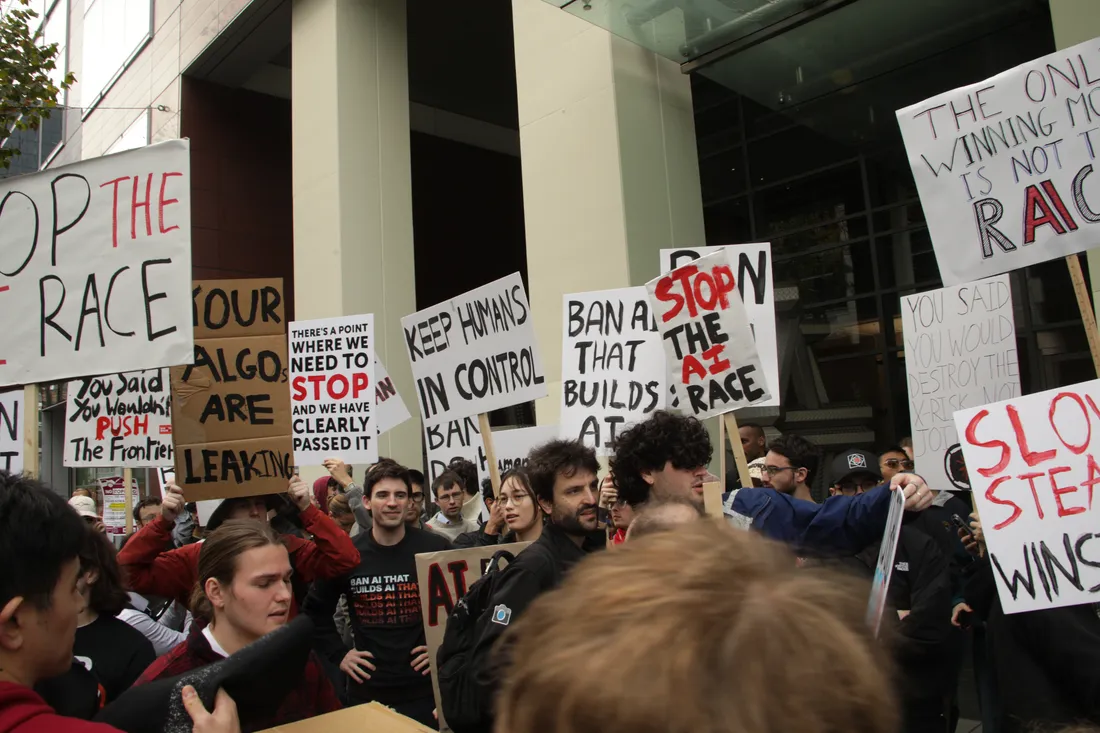
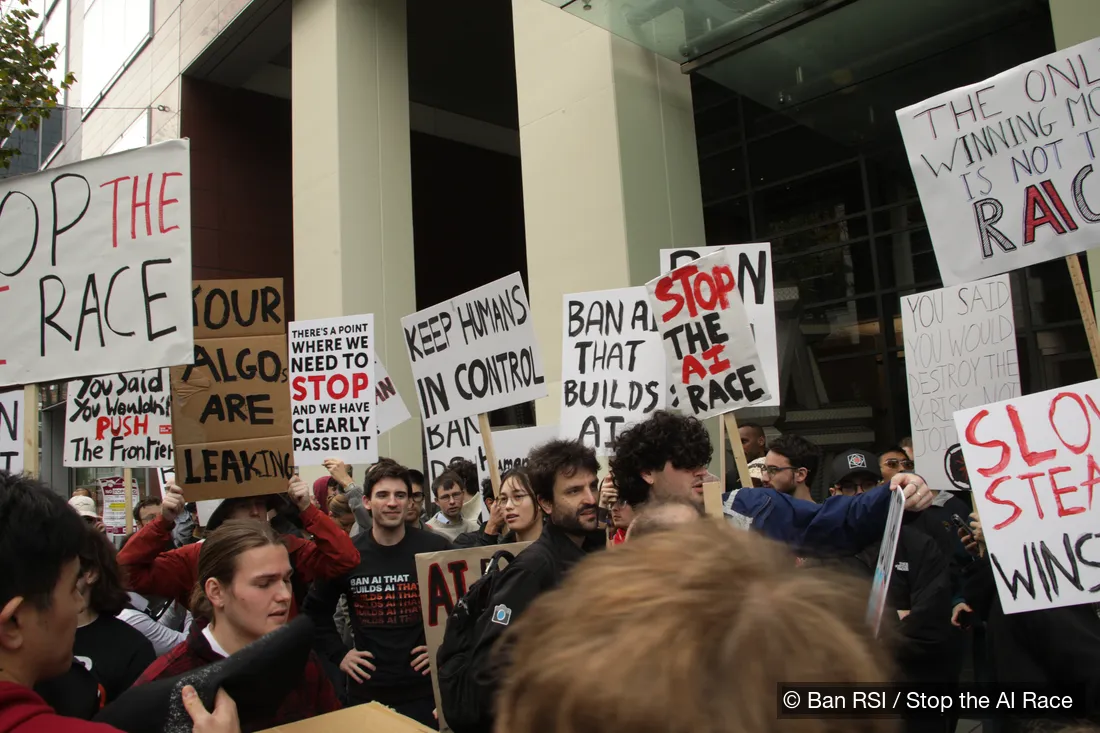
Ban RSI photos: visible © Ban RSI / Stop the AI Race watermark on every vote and press photo
Press photos renamed *-wm.jpg and vote photos load with ?v=2 so caches pick up the watermarked versions.

Changed region(s): [[0.68, 0.9304, 0.9582, 0.9905]]

diff --git a/banrsi/press/index.html b/banrsi/press/index.html
@@ -12,13 +12,13 @@ window.PRESS = {
   // Ban RSI is the main organizer; Stop the AI Race is a separate group that co-organized.
   ORGANIZERS: 'Ban RSI (Sydney Von Arx and Lauren Mangla), co-organized with Stop the AI Race',   // Event Details
 
-  // Photos: hero is /banrsi/hero-rally-2952.jpg (0H9A2952), Jacob Coxon speaking is /banrsi/photos/coxon-2979.jpg (0H9A2979), grid is /banrsi/photos/rally-*.jpg (tier 1 picks).
+  // Photos: hero is /banrsi/hero-rally-2952-wm.jpg (0H9A2952), Jacob Coxon speaking is /banrsi/photos/coxon-2979-wm.jpg (0H9A2979), grid is /banrsi/photos/rally-*.jpg (tier 1 picks).
   // To swap one, add the new file under a new name and update the path, so caches don't keep the old one.
   PHOTO_CREDIT: 'Ban RSI / Stop the AI Race',
   PHOTOS: [
-    { src: '/banrsi/photos/rally-2903.jpg',   // 0H9A2903
+    { src: '/banrsi/photos/rally-2903-wm.jpg',   // 0H9A2903
       alt: 'Protesters on the sidewalk outside Anthropic’s headquarters with signs including “Really Stupid Idea”' },
-    { src: '/banrsi/photos/rally-2915.jpg',   // 0H9A2915
+    { src: '/banrsi/photos/rally-2915-wm.jpg',   // 0H9A2915
       alt: 'A protester outside Anthropic holds a sign reading “In a race off a cliff, no one wins”' },
   ],
 
@@ -432,7 +432,7 @@ window.PRESS = {
 </header>
 
 <figure class="press-hero-image">
-  <img id="hero" src="/banrsi/hero-rally-2952.jpg" width="2000" height="1333" alt="Protesters outside Anthropic&rsquo;s San Francisco headquarters with signs reading &ldquo;Please stop&rdquo;, &ldquo;Hold swarm, help peer, ban RSI&rdquo; and &ldquo;Regulate AI&rdquo;">
+  <img id="hero" src="/banrsi/hero-rally-2952-wm.jpg" width="2000" height="1333" alt="Protesters outside Anthropic&rsquo;s San Francisco headquarters with signs reading &ldquo;Please stop&rdquo;, &ldquo;Hold swarm, help peer, ban RSI&rdquo; and &ldquo;Regulate AI&rdquo;">
   <figcaption class="press-hero-caption">Protesters outside Anthropic, 500 Howard St, San Francisco, November 19, 2026. Photo &copy; <span data-v="PHOTO_CREDIT"></span>.</figcaption>
 </figure>
 
@@ -443,7 +443,7 @@ window.PRESS = {
   <p>Speakers included <strong>Daniel Kokotajlo</strong>, the former OpenAI researcher and co-author of AI&nbsp;2027, who left OpenAI over safety concerns and spoke outside his former employer for the first time at the March for an AI Treaty on November 14; <strong>Jacob Coxon</strong>; AI safety YouTuber <strong>Robert Miles</strong>; <strong>David Krueger</strong> of Evitable; and <strong>Michael Trazzi</strong> of Stop the AI Race.</p>
 
   <figure class="speaker-photo">
-    <a href="/banrsi/photos/coxon-2979.jpg" target="_blank" rel="noopener"><img src="/banrsi/photos/coxon-2979.jpg" width="2000" height="1333" loading="lazy" alt="Jacob Coxon speaks to the crowd outside Anthropic, surrounded by signs reading “Ban RSI” and “Earth is in danger”"></a>
+    <a href="/banrsi/photos/coxon-2979-wm.jpg" target="_blank" rel="noopener"><img src="/banrsi/photos/coxon-2979-wm.jpg" width="2000" height="1333" loading="lazy" alt="Jacob Coxon speaks to the crowd outside Anthropic, surrounded by signs reading “Ban RSI” and “Earth is in danger”"></a>
     <figcaption>Jacob Coxon speaks outside Anthropic, November 19, 2026. Photo &copy; Ban RSI / Stop the AI Race.</figcaption>
   </figure>
 

diff --git a/banrsi/vote/vote.js b/banrsi/vote/vote.js
@@ -5,7 +5,7 @@
   const { album, count } = window.VOTE;
   const API = (window.VOTE_API || '').replace(/\/$/, '');
   const ids = Array.from({ length: count }, (_, i) => `${album}-${String(i + 1).padStart(3, '0')}`);
-  const src = id => `/banrsi/vote/p/${id}.webp`;
+  const src = id => `/banrsi/vote/p/${id}.webp?v=2`;   // bump v when the photo files change (watermark added: v=2)
   const TOPK = window.VOTE.topK || 3;
   const $ = s => document.querySelector(s);
 
